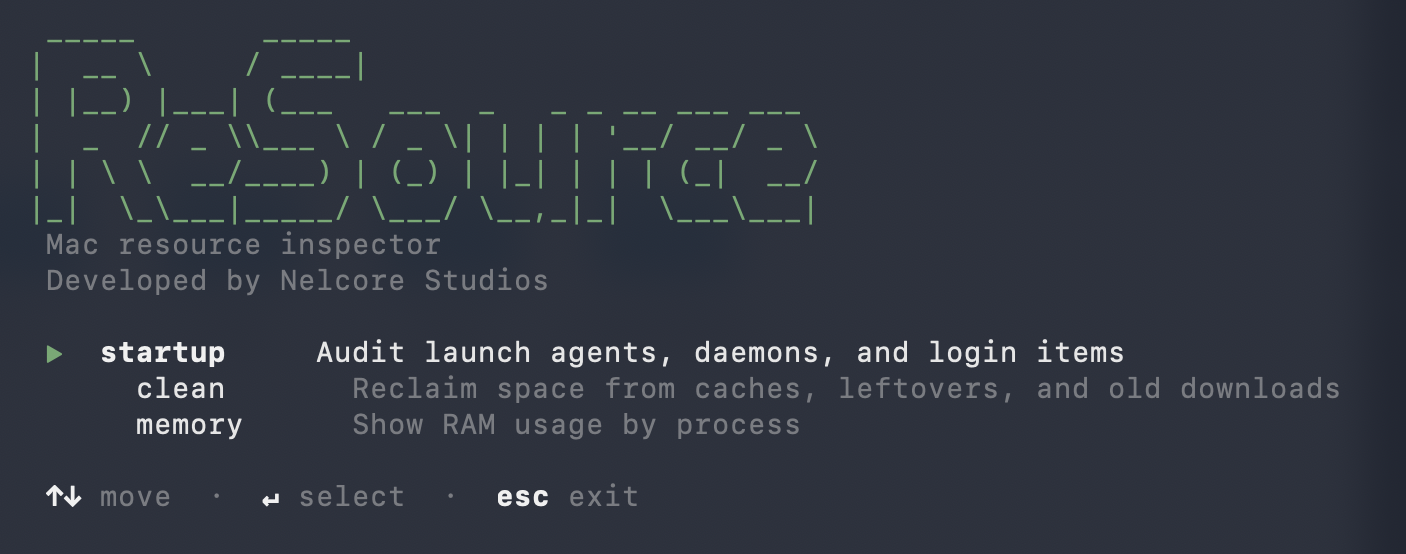
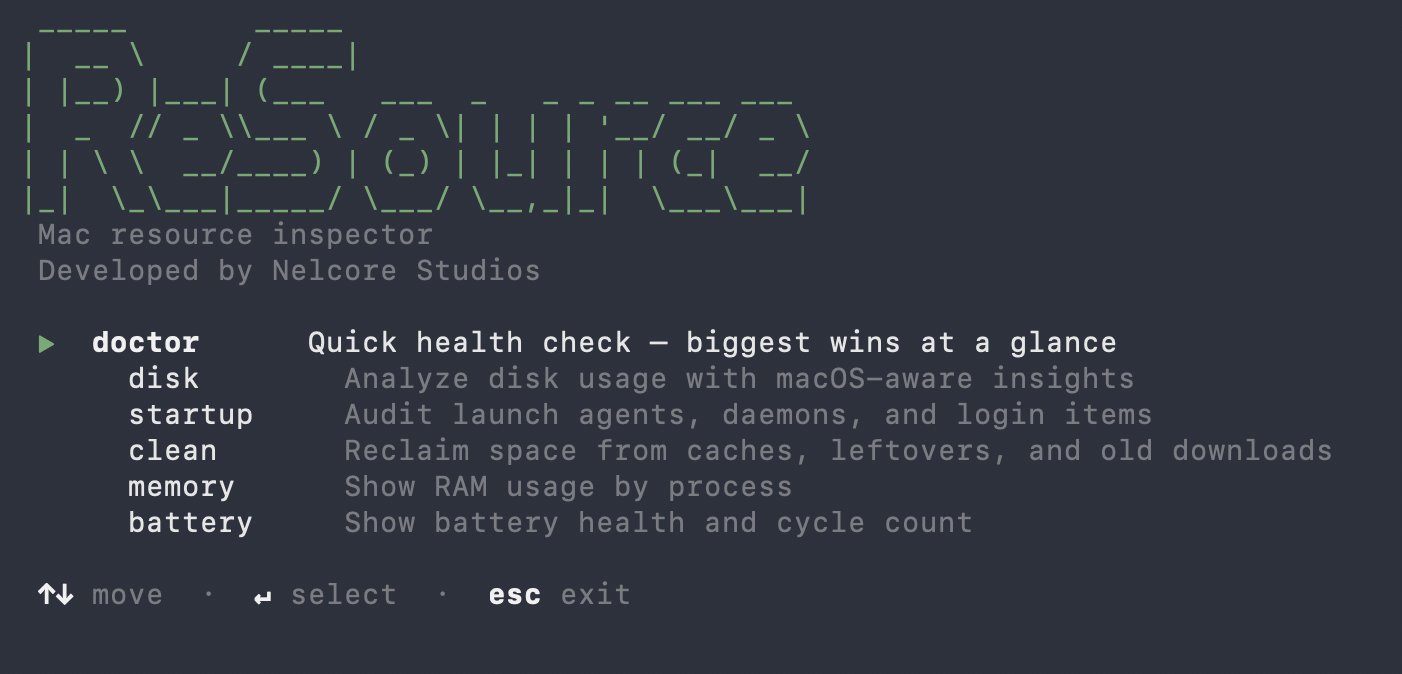
Update README and screenshot for v0.4.0
Add doctor and battery commands, remove stale project structure and
quarantine workaround sections, replace screenshot with current UI.

diff --git a/README.md b/README.md
@@ -1,10 +1,13 @@
 # ReSource
 
-A macOS terminal tool for auditing startup items, reclaiming disk space, and monitoring memory. Built for people who want to know what's running on their machine and clean it up without installing a GUI app.
+A macOS terminal tool for auditing startup items, reclaiming disk space, monitoring memory, and checking battery health. Built for people who want to know what's running on their machine and clean it up without installing a GUI app.
 
 ![ReSource](screenshot.png)
 
 ## Features
+
+### Doctor
+Runs a quick health check across all domains and surfaces the biggest wins in one view: disk usage, cleanable cache totals by category, dead startup entries, and battery health. Ends with an action menu so you can jump straight into `clean` or `startup`.
 
 ### Disk
 Surfaces what `du`-based tools miss: APFS purgeable space, local Time Machine snapshot sizes, and a breakdown of your home directory sorted by size.
@@ -34,6 +37,9 @@ All scans run in parallel for fast results. Settings (download age threshold, ex
 
 ### Memory
 Shows a live breakdown of system RAM and top processes sorted by usage — same categories as Activity Monitor (Used, App, Wired, Compressed, Cached, Free).
+
+### Battery
+Shows battery health (maximum capacity %), cycle count, current charge, and charging status. Warns when cycle count is high or the condition requires service. Gracefully skips on desktop Macs.
 
 ## Requirements
 
@@ -69,10 +75,12 @@ Then just type `resource` in any terminal window.
 
 ```
 resource           # interactive menu
+resource doctor    # quick health check
 resource disk      # analyze disk usage
-resource startup   # jump straight to startup audit
-resource clean     # jump straight to clean
-resource memory    # jump straight to memory
+resource startup   # audit startup items
+resource clean     # reclaim cache space
+resource memory    # show RAM by process
+resource battery   # show battery health
 resource config    # view and edit settings
 ```
 
@@ -84,29 +92,6 @@ resource config    # view and edit settings
 | `↵` or `Space` | Toggle selection |
 | `⌫` (Delete) | Move selected items to Trash |
 | `Esc` or `q` | Back / quit |
-
-## Running on a Mac without Xcode
-
-If you're installing a pre-built binary on someone else's Mac, macOS will block it because it isn't signed by a known developer. To get around this, right-click the binary in Finder and choose **Open**, then click **Open** again when prompted. After that first approval it runs normally.
-
-Or from Terminal:
-```bash
-xattr -dr com.apple.quarantine /usr/local/bin/resource
-```
-
-## Project structure
-
-```
-Sources/ReSource/
-  ReSource.swift          # entry point, main menu
-  Commands/               # argument-parser subcommands
-  Startup/                # launch item scanning and list view
-  Clean/                  # cache scanning and list view
-  Memory/                 # memory snapshot and process list
-  TUI/                    # raw terminal, menu, key reading
-  Output/                 # spinner, progress bar, styles
-  Utils/                  # shell runner, formatter, prompt
-```
 
 ## Built with
 